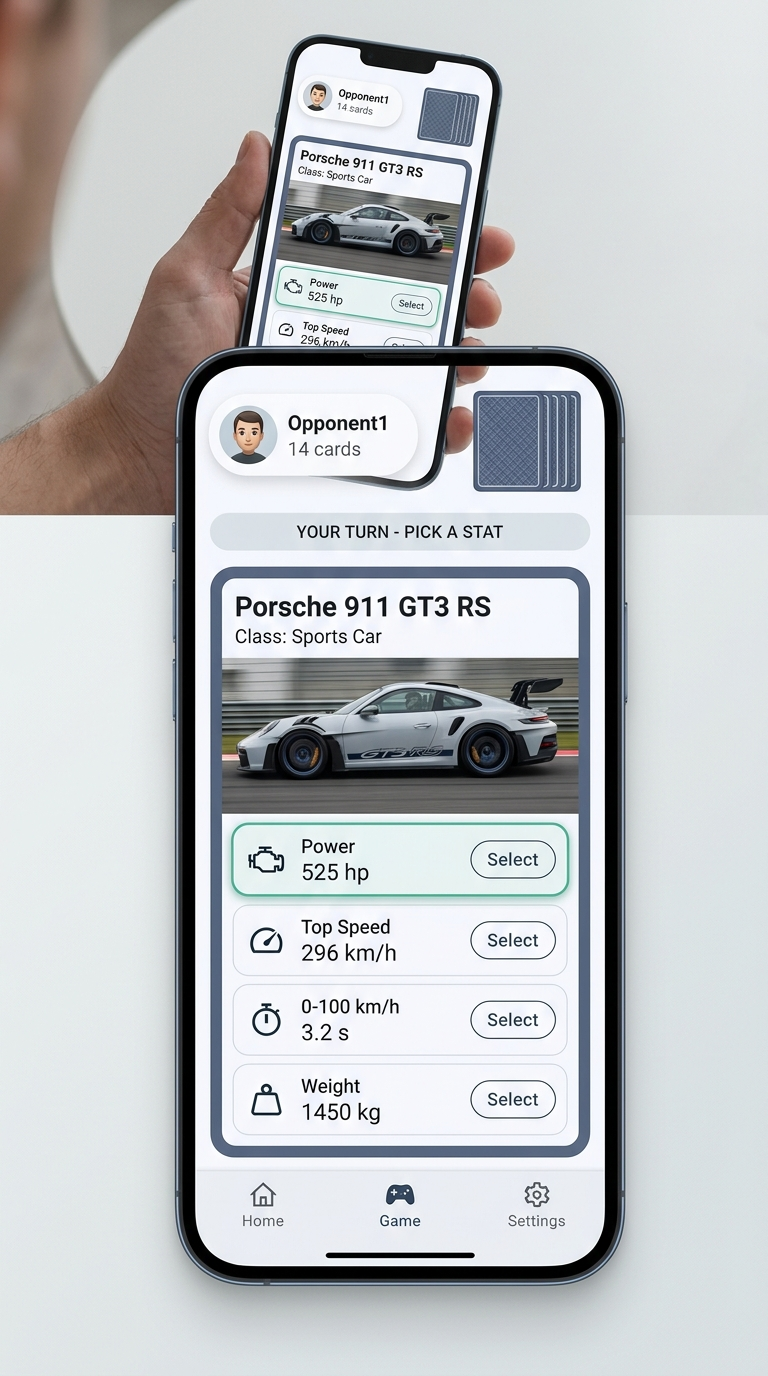
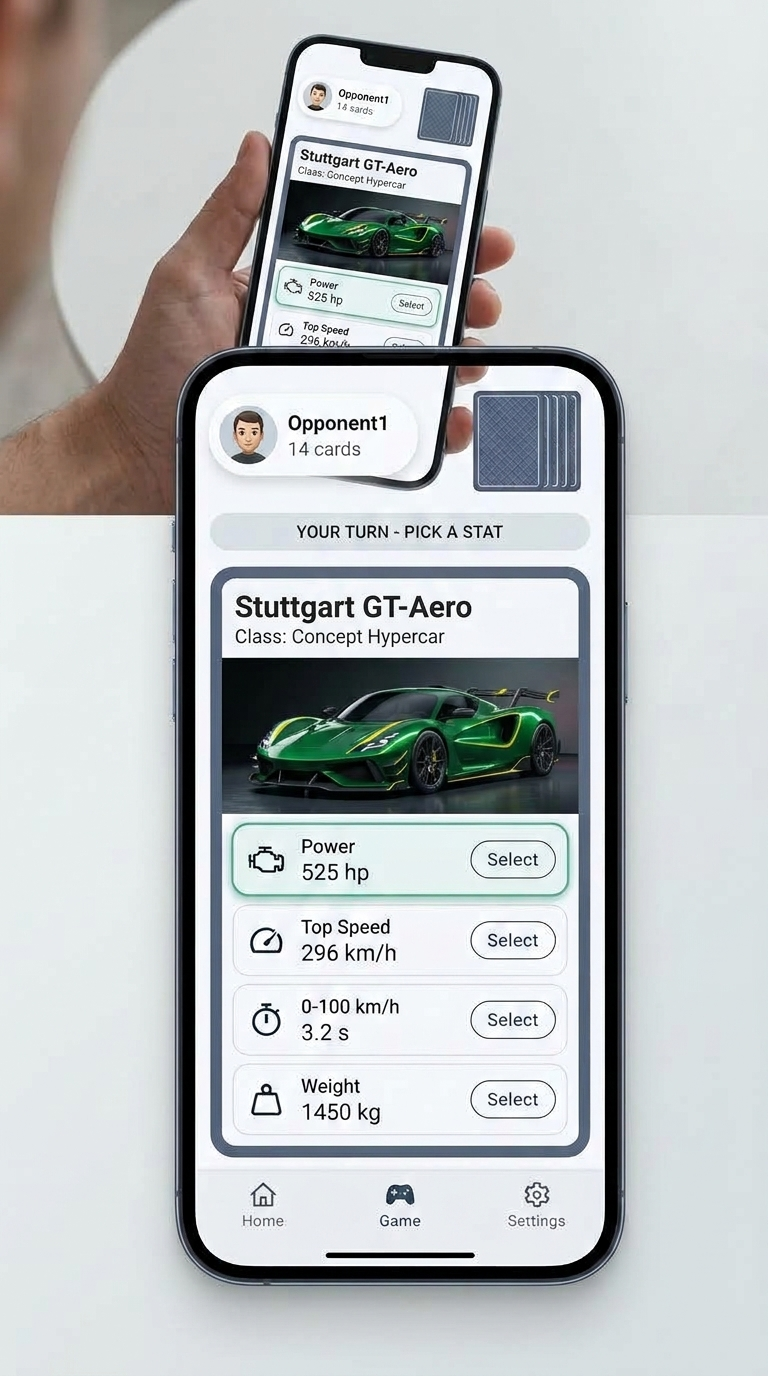
fix(branding): replace Porsche 911 GT3 RS with markenschutz-konform Stuttgart GT-Aero concept

Changed region(s): [[0.2812, 0.4062, 0.75, 0.5938], [0.3438, 0.0938, 0.5938, 0.2188]]

diff --git a/tester.html b/tester.html
@@ -673,7 +673,7 @@
           <div class="feature-icon" aria-hidden="true">🦋</div>
           <h3 class="feature-title">Vielfältige Kartendecks</h3>
           <p class="feature-text">
-            Von 1.000-PS-Supercars (Porsche, Rimac, Bugatti) über schwere Feuerwehr-Einsatzfahrzeuge bis hin zu faszinierenden heimischen Schmetterlingen.
+            Von über 1.000 PS starken Konzept-Hypercars über schwere Feuerwehr-Einsatzfahrzeuge bis hin zu faszinierenden heimischen Schmetterlingen.
           </p>
         </article>
 
@@ -696,11 +696,11 @@
 
       <div class="decks-row">
         <article class="deck-tile">
-          <img src="assets/deck_supercar_gt3rs.jpg" alt="Porsche 911 GT3 RS Supercar Karte" class="deck-img">
+          <img src="assets/deck_supercar_a1.jpg" alt="Stuttgart GT-Aero Supercar Karte" class="deck-img">
           <div class="deck-content">
             <span class="deck-badge">Fahrzeuge</span>
             <h3 class="deck-title">Supercars</h3>
-            <p class="deck-car">Porsche 911 GT3 RS</p>
+            <p class="deck-car">Stuttgart GT-Aero</p>
             <span class="deck-stat-badge">⚡ 525 PS • 296 km/h</span>
           </div>
         </article>

diff --git a/flyer.html b/flyer.html
@@ -482,10 +482,10 @@
     <div class="section-label">Entdecke die ersten Starter-Decks:</div>
     <div class="deck-row">
       <div class="deck-card">
-        <img src="assets/deck_supercar_gt3rs.jpg" alt="Porsche 911 GT3 RS">
+        <img src="assets/deck_supercar_a1.jpg" alt="Stuttgart GT-Aero">
         <div class="deck-meta">
           <div class="deck-title">🏎 Supercars</div>
-          <div class="deck-car">Porsche 911 GT3 RS</div>
+          <div class="deck-car">Stuttgart GT-Aero</div>
           <div class="deck-stat">525 PS • 296 km/h</div>
         </div>
       </div>
